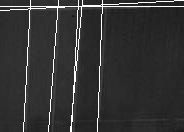
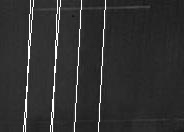
test result

Changed region(s): [[0.0, 0.0, 1.0, 1.0], [0.1087, 0.3333, 0.163, 1.0]]

diff --git a/cvproj/start.py b/cvproj/start.py
@@ -11,37 +11,27 @@ from matplotlib import pyplot as plt
 #img = cv2.imread('testimg.JPG', 0)
 #im = im.convert("L")
 #im.save(r't.JPG')
-img = cv2.imread('t.JPG', 0)
-img1 = cv2.imread('incimg.jpg', 0)
-sobelX = cv2.Sobel(img,cv2.CV_64F,1,0)#x方向的梯度
-sobelY = cv2.Sobel(img,cv2.CV_64F,0,1)#y方向的梯度
+origin = cv2.imread('origin.JPG', 0)
+img_grey = cv2.imread('.JPG', 0)
+img_inc = cv2.imread('incimg.jpg', 0)
 
 
-
-sobelX = np.uint8(np.absolute(sobelX))#x方向梯度的绝对值
-sobelY = np.uint8(np.absolute(sobelY))#y方向梯度的绝对值
-
-
-sobelCombined = cv2.bitwise_or(sobelX,sobelY)#
-
-median = cv2.medianBlur(img, 5)
-
-blur = cv2.GaussianBlur(img1,(5,5),0)
-cv2.imshow("blur",blur)
-#cv2.imwrite('blur.jpg', blur)
+blur = cv2.GaussianBlur(img_inc,(5,5),0)
+#cv2.imshow("blur",blur)
+cv2.imwrite('blur.jpg', blur)
 edges = cv2.Canny(blur, 10, 100, apertureSize = 3)
-cv2.imshow("edges",edges)
-#cv2.imwrite('edge.jpg', edges)
+#cv2.imshow("edges",edges)
+cv2.imwrite('edge.jpg', edges)
 
 lines = cv2.HoughLines(edges,3,np.pi/180,118) #这里对最后一个参数使用了经验型的值
-result = img.copy()
+result = img_grey.copy()
 
 for i in range(0,7):
     for line in lines[i]:
         rho = line[0] #第一个元素是距离rho
         theta= line[1] #第二个元素是角度theta
-        print(rho)
-        print(theta)
+        #print(rho)
+        #print(theta)
         if(theta < (np.pi/4. )) or (theta > (3.*np.pi/4.0)): #垂直直线
                 #该直线与第一行的交点
             pt1 = (int(rho/np.cos(theta)),0)
@@ -58,12 +48,15 @@ for i in range(0,7):
             #cv2.line(result, pt1, pt2, (255), 1)
             pass
 
-cv2.imshow("result", result)
-#cv2.imwrite('result.jpg', result)
+#cv2.imshow("result", result)
+cv2.imwrite('result.jpg', result)
 #cv2.imshow('Result', result)
 
 #cv2.imshow("Sobel Combined", sobelCombined)
+plt.subplot(151);plt.imshow(origin)
+plt.subplot(152);plt.imshow(img_grey)
 
-
-cv2.waitKey(0)
-cv2.destroyAllWindows()
+plt.subplot(153);plt.imshow(img_inc)
+plt.subplot(154);plt.imshow(edges)
+plt.subplot(155);plt.imshow(result)
+plt.show()
